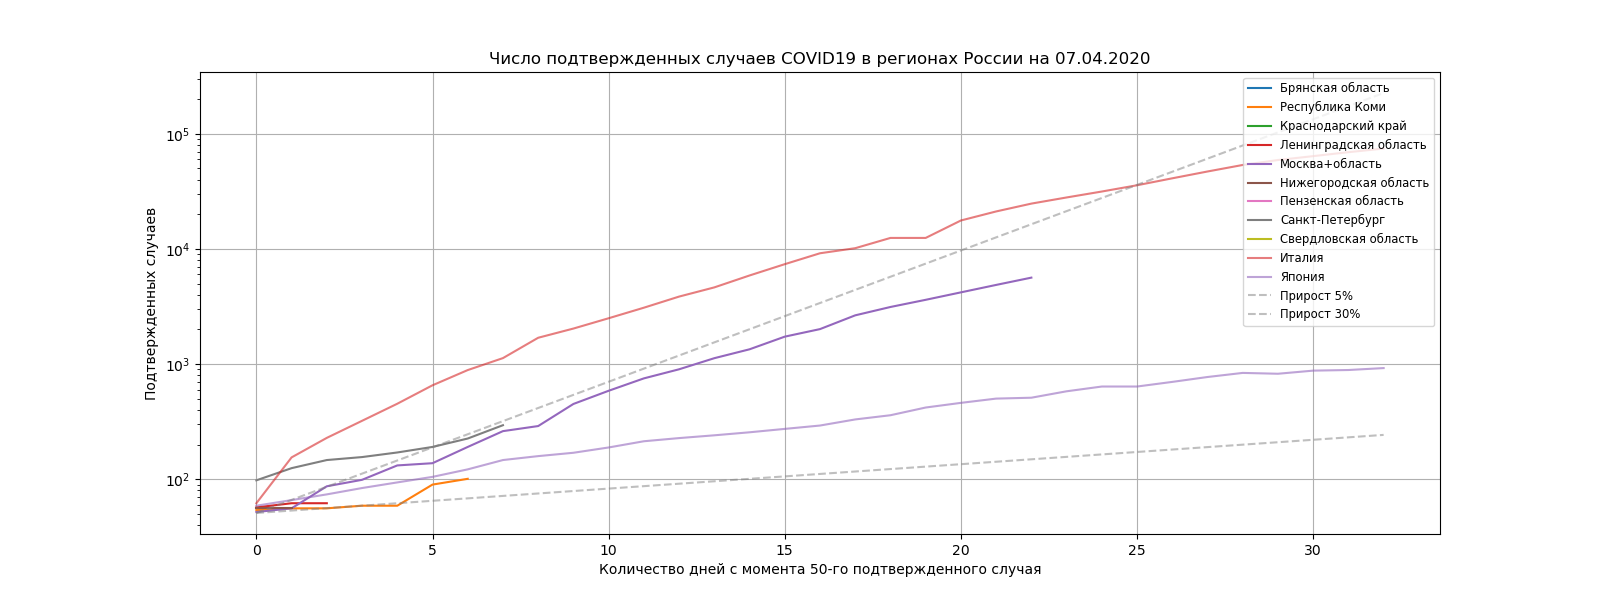
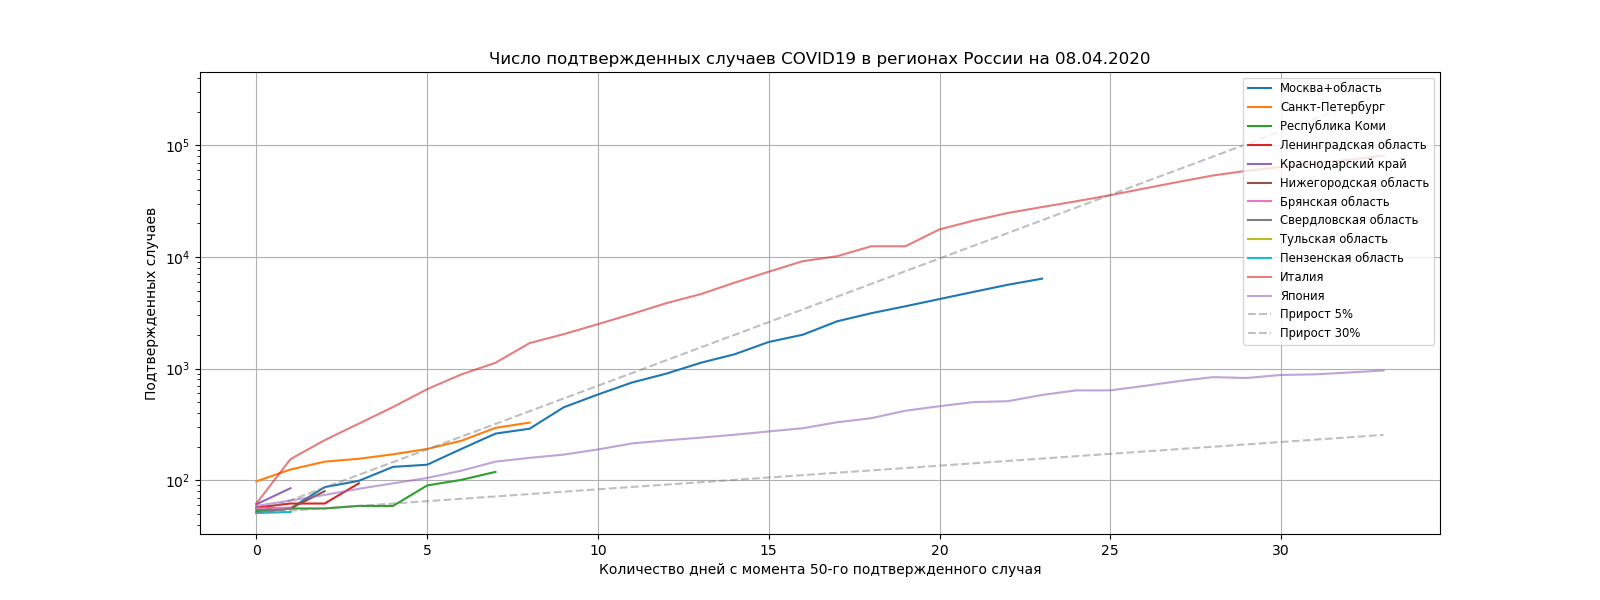
Update plots

diff --git a/python3/src/covid19ru/plot.py b/python3/src/covid19ru/plot.py
@@ -1,7 +1,7 @@
 import matplotlib.pyplot as plt
 from math import pow
 from typing import Dict, Optional, Tuple
-from .access import load, timelines, TimeLine
+from .access import load, timelines, TimeLine, Province_State, Country_Region
 from .fetch import REGIONS_EN_RU
 from itertools import chain
 from datetime import datetime
@@ -10,7 +10,8 @@ from collections import OrderedDict
 import locale
 locale.setlocale(locale.LC_TIME, "en_US")
 
-def timelines_preprocess():
+def timelines_preprocess()->Dict[Tuple[Province_State,Country_Region],TimeLine]:
+  """ Merge Moscow and Moscow oblast """
   tls=timelines(country_region='Russia', default_loc='')
 
   def _todict(tl:TimeLine)->dict:
@@ -42,7 +43,7 @@ def plot(confirmed_min_threshold=50, show:bool=False,
   min_confirmed=99999999
   tls=timelines_preprocess()
   out:Dict[Tuple[str,str],TimeLine]=OrderedDict()
-  out.update({k:v for k,v in sorted(tls.items(), key=lambda i:i[0]) })
+  out.update({k:v for k,v in sorted(tls.items(), key=lambda i:-i[1].confirmed[-1]) })
   out.update(timelines(country_region='Italy', default_loc=''))
   out.update(timelines(country_region='Japan', default_loc=''))
   lastdate=out[('Moscow+MO','Russia')].dates[-1]
